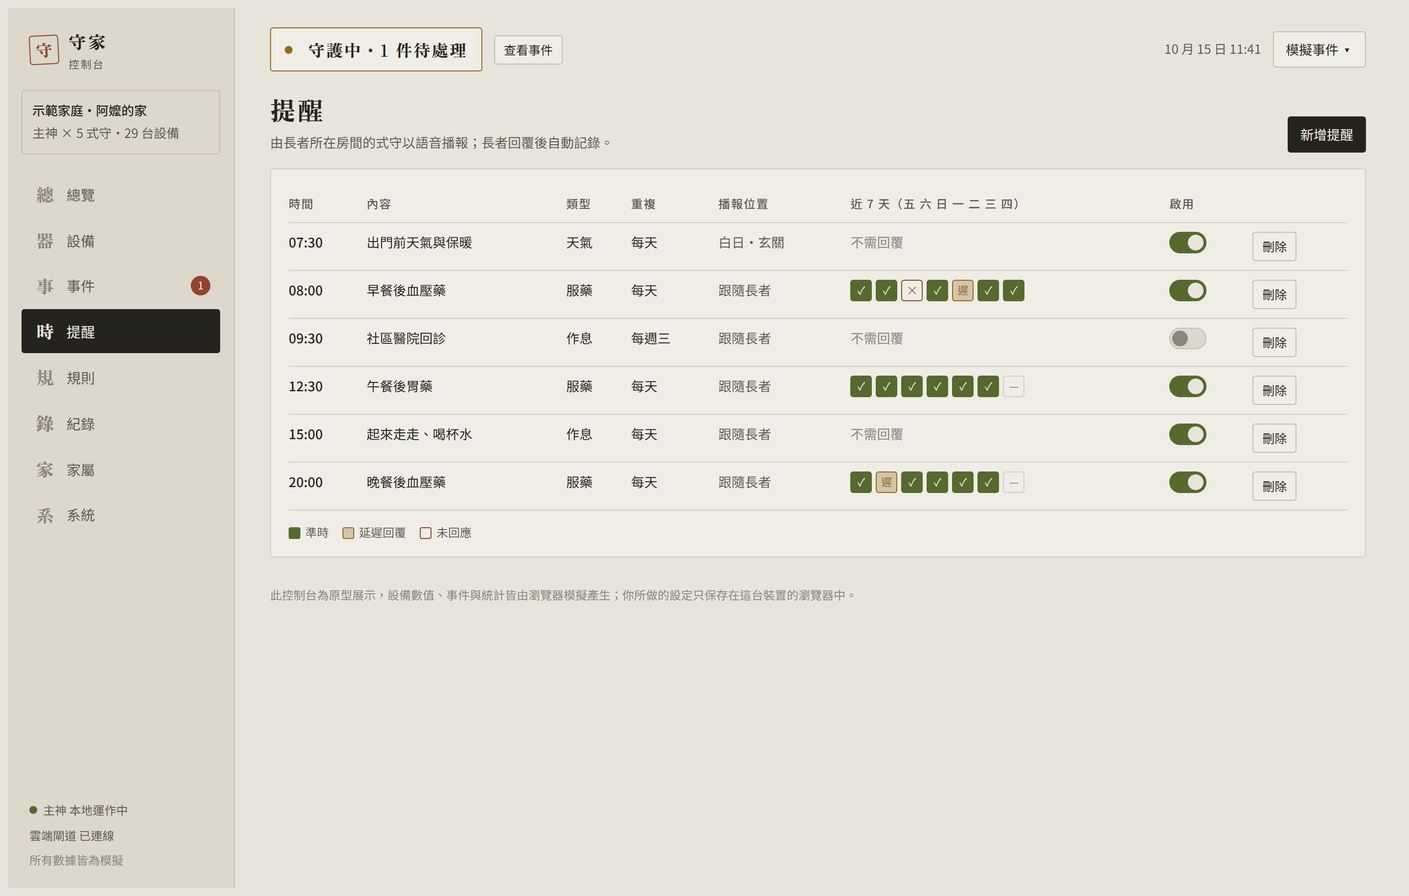
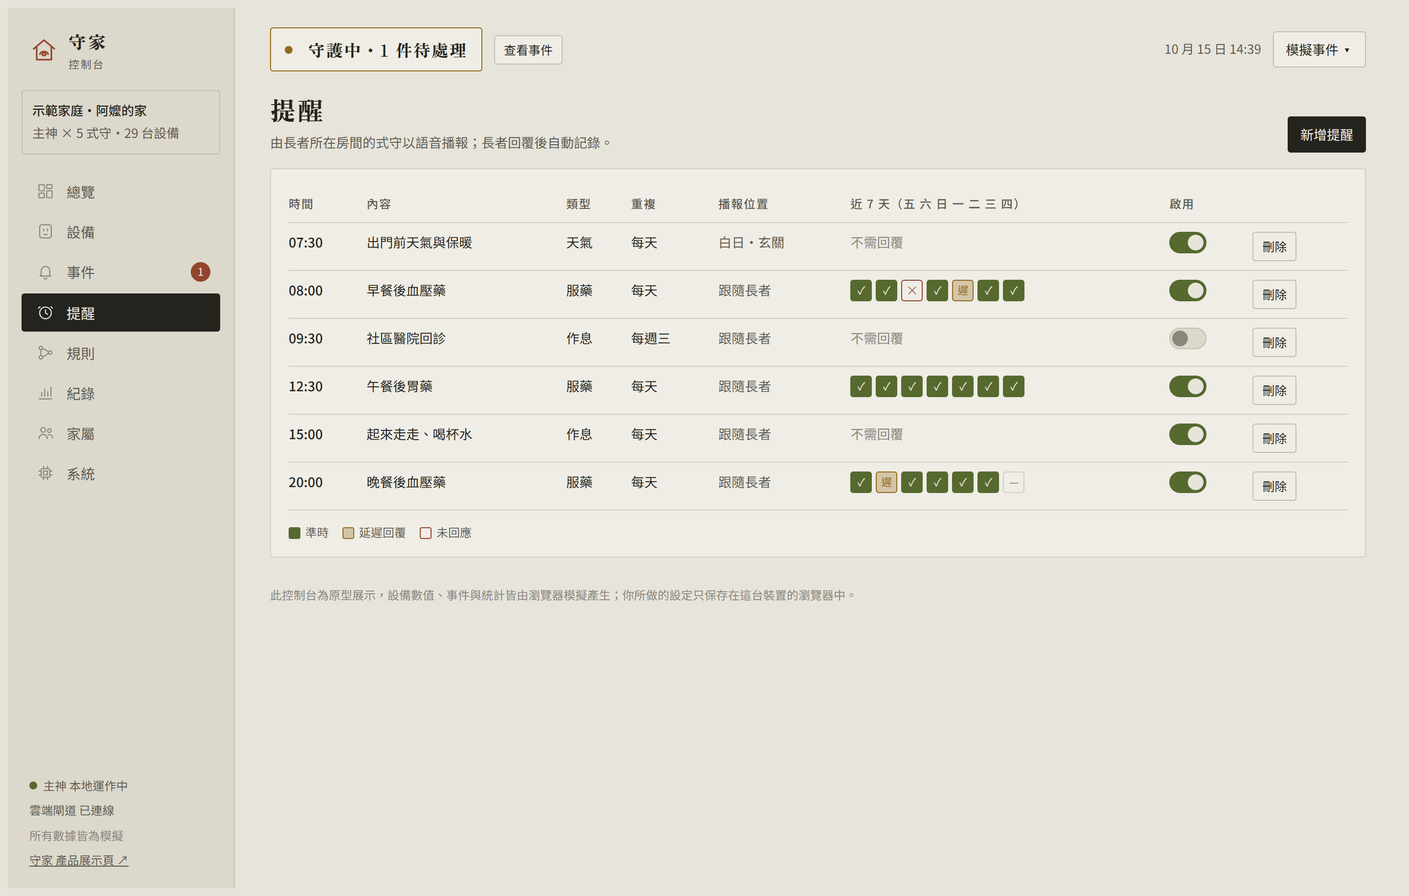
線條圖示、修正跑版、加入產品圖片

diff --git a/index.html b/index.html
@@ -61,13 +61,14 @@ p{margin:0}
 header.top{position:sticky;top:env(safe-area-inset-top,0px);z-index:10;background:color-mix(in srgb,var(--sand) 88%,transparent);
   backdrop-filter:blur(6px);border-bottom:1px solid var(--line)}
 header.top .wrap{display:flex;align-items:center;gap:20px;height:56px}
-.seal{width:30px;height:30px;border:1.5px solid var(--bengara);color:var(--bengara);display:grid;place-items:center;
-  font-family:var(--f-display);font-weight:900;font-size:17px;border-radius:3px;transform:rotate(-3deg);flex:none}
+.ico{width:18px;height:18px;flex:none;fill:none;stroke:currentColor;stroke-width:1.4;stroke-linecap:round;stroke-linejoin:round}
+.mark{width:30px;height:30px;color:var(--bengara);stroke-width:1.3}
 .brand{display:flex;align-items:center;gap:10px;text-decoration:none;font-family:var(--f-display);font-size:18px;letter-spacing:.1em}
-nav.sections{margin-left:auto;display:flex;gap:4px;overflow-x:auto;scrollbar-width:none}
-nav.sections a{font-family:var(--f-ui);font-size:13px;text-decoration:none;color:var(--ink-2);padding:6px 10px;border-radius:2px;white-space:nowrap}
+nav.sections{margin-left:auto;display:flex;gap:2px;overflow-x:auto;scrollbar-width:none;min-width:0}
+nav.sections a{font-family:var(--f-ui);font-size:13px;text-decoration:none;color:var(--ink-2);padding:6px 9px;border-radius:2px;white-space:nowrap;display:inline-flex;align-items:center;gap:6px}
+nav.sections a .ico{width:17px;height:17px;color:var(--ink)}
+nav.sections a.cta{border:1px solid var(--line)}
 nav.sections a:hover{color:var(--ink);background:var(--sand-2)}
-nav.sections a b{font-family:var(--f-display);font-weight:700;color:var(--ink);margin-right:4px}
 
 /* 序 */
 .hero{padding-block:56px 28px;display:grid;grid-template-columns:auto 1fr;gap:clamp(24px,5vw,72px);align-items:start}
@@ -167,7 +168,8 @@ ol.steps li:first-child{border-top:0}
 
 /* 層 */
 .stack{display:grid;gap:10px}
-.layer{display:grid;grid-template-columns:minmax(0,var(--w)) 1fr;gap:24px;align-items:center}
+.layer{display:grid;grid-template-columns:minmax(0,1.15fr) minmax(0,1fr);gap:28px;align-items:center}
+.layer .rock{width:var(--w)}
 .rock{background:var(--rc);color:var(--sand);padding:14px 22px;font-family:var(--f-display);font-weight:700;font-size:17px;letter-spacing:.12em;
   border-radius:var(--rr);min-height:64px;display:flex;align-items:center;justify-content:space-between;gap:12px}
 .rock small{font-family:var(--f-ui);font-weight:400;font-size:11px;letter-spacing:.14em;opacity:.8}
@@ -184,7 +186,7 @@ td.muted{color:var(--ink-2)}
 .innov{display:grid;grid-template-columns:repeat(3,minmax(0,1fr));gap:0;border-top:1px solid var(--line)}
 .innov > div{padding:22px 22px 24px 0;border-bottom:1px solid var(--line);display:grid;grid-template-columns:auto 1fr;gap:14px;align-items:start}
 .innov > div:not(:nth-child(3n+1)){padding-left:22px;border-left:1px solid var(--line)}
-.innov .k{font-family:var(--f-display);font-weight:900;font-size:34px;line-height:1;color:var(--ink-2)}
+.innov .k{width:34px;height:34px;color:var(--ink-2);stroke-width:1.2;margin-top:2px}
 .innov h3{font-size:16.5px;margin-bottom:6px}
 .innov p{font-size:14.5px;color:var(--ink-2);line-height:1.7}
 .compare{margin-top:40px;overflow-x:auto}
@@ -210,6 +212,31 @@ ol.path{padding:0;margin:0 0 40px}
 .team span{font-family:var(--f-ui);font-size:12.5px;color:var(--ink-2)}
 footer{padding-block:40px 56px;border-top:1px solid var(--line);font-family:var(--f-ui);font-size:12.5px;color:var(--ink-2);display:flex;justify-content:space-between;gap:16px;flex-wrap:wrap}
 
+/* 形・圖片 */
+.gallery{display:grid;grid-template-columns:repeat(12,minmax(0,1fr));gap:22px;align-items:start}
+.g-main{grid-column:span 7}.g-side{grid-column:span 5;display:grid;gap:22px}
+figure{margin:0;min-width:0}
+figure button.zoom{display:block;width:100%;padding:0;border:1px solid var(--line);border-radius:2px;background:var(--sand-2);cursor:zoom-in;overflow:hidden}
+figure img{display:block;width:100%;height:auto;transition:transform .6s ease}
+figure button.zoom:hover img{transform:scale(1.02)}
+figcaption{font-family:var(--f-ui);font-size:12.5px;color:var(--ink-2);line-height:1.6;margin-top:8px}
+figcaption b{color:var(--ink);font-weight:500}
+.roster{display:grid;grid-template-columns:repeat(5,minmax(0,1fr));gap:0;border-top:1px solid var(--line);border-bottom:1px solid var(--line)}
+.roster div{padding:12px 12px 12px 0;display:grid;gap:2px}
+.roster div+div{padding-left:12px;border-left:1px solid var(--line)}
+.roster b{font-family:var(--f-display);font-weight:700;font-size:18px;letter-spacing:.12em;display:flex;align-items:center;gap:8px}
+.roster b i{width:9px;height:9px;border-radius:50%;background:var(--dot)}
+.roster span{font-family:var(--f-ui);font-size:12px;color:var(--ink-2)}
+.core{display:grid;grid-template-columns:minmax(0,1fr) minmax(0,1.3fr);gap:28px;align-items:center;margin-top:34px;padding-top:28px;border-top:1px dashed var(--line)}
+.core h3{font-size:18px;letter-spacing:.06em;margin-bottom:8px}
+.core p{font-size:15px;color:var(--ink-2)}
+.plan-fig{margin-top:30px}
+dialog#lb{border:0;padding:0;background:transparent;max-width:min(1200px,94vw);max-height:92vh}
+dialog#lb::backdrop{background:rgba(10,10,8,.82)}
+dialog#lb img{display:block;max-width:100%;max-height:84vh;width:auto;margin:0 auto}
+dialog#lb p{color:#e6e2d6;font-family:var(--f-ui);font-size:13px;text-align:center;margin-top:10px}
+dialog#lb button{position:absolute;top:8px;right:8px;background:rgba(0,0,0,.55);color:#fff;border:0;border-radius:2px;padding:4px 10px;cursor:pointer;font-family:var(--f-ui)}
+@media (max-width:560px){.roster{grid-template-columns:repeat(2,minmax(0,1fr))}.roster div{border-left:0 !important;padding-left:0 !important}}
 @keyframes settle{from{opacity:.25;transform:translateY(4px)}to{opacity:1;transform:none}}
 
 @media (max-width:900px){
@@ -223,7 +250,10 @@ footer{padding-block:40px 56px;border-top:1px solid var(--line);font-family:var(
   .path li::before{top:4px;left:-6px}
   .horizon{grid-template-columns:1fr}
   .layer{grid-template-columns:1fr;gap:6px}
-  .rock{max-width:var(--w)}
+  .layer .rock{width:auto;max-width:var(--w)}
+  .gallery{grid-template-columns:1fr}
+  .gallery .g-main,.gallery .g-side{grid-column:auto}
+  .core{grid-template-columns:1fr}
 }
 @media (max-width:560px){
   .hero{grid-template-columns:1fr;padding-block:32px 16px}
@@ -234,7 +264,7 @@ footer{padding-block:40px 56px;border-top:1px solid var(--line);font-family:var(
   .facts div+div{padding-left:0;border-left:0}
   .facts div{flex-basis:100%;border-bottom:1px solid var(--line)}
   .facts div:last-child{border-bottom:0}
-  .rock{max-width:100%}
+  .layer .rock{max-width:100%}
   nav.sections a{padding:6px 7px}
   nav.sections a span{display:none}
 }
@@ -242,17 +272,34 @@ footer{padding-block:40px 56px;border-top:1px solid var(--line);font-family:var(
 </style>
 </head>
 <body>
+<svg width="0" height="0" style="position:absolute" aria-hidden="true">
+  <symbol id="i-mark" viewBox="0 0 24 24"><path d="M3.5 11.2 12 4l8.5 7.2"/><path d="M6 9.5V20h12V9.5"/><ellipse cx="12" cy="15.6" rx="1.5" ry="1"/><path d="M8.7 15.6a3.3 2.3 0 0 1 6.6 0"/></symbol>
+  <symbol id="i-form" viewBox="0 0 24 24"><path d="M6.6 10.2 7 5.4l3 2.3h4l3-2.3.4 4.8"/><path d="M5.6 13.6a6.4 6.4 0 0 0 12.8 0c0-1.9-1-3.4-1-3.4H6.6s-1 1.5-1 3.4z"/><path d="M10 13.4v.4M14 13.4v.4"/></symbol>
+  <symbol id="i-garden" viewBox="0 0 24 24"><ellipse cx="8.5" cy="14.5" rx="2.4" ry="1.6"/><path d="M4.3 14.5a4.2 3.2 0 0 1 8.4 0M2.4 14.5a6.1 4.7 0 0 1 12.2 0"/><path d="M15.5 9.5h6M15.5 12.5h6M17 15.5h4.5M2.5 19.5h19"/></symbol>
+  <symbol id="i-voice" viewBox="0 0 24 24"><path d="M12 4v16M8.5 7.5v9M15.5 7.5v9M5 10.5v3M19 10.5v3"/></symbol>
+  <symbol id="i-layers" viewBox="0 0 24 24"><path d="M12 4 3.5 8.3 12 12.6l8.5-4.3z"/><path d="m3.5 12.4 8.5 4.3 8.5-4.3"/><path d="m3.5 16.3 8.5 4.3 8.5-4.3"/></symbol>
+  <symbol id="i-new" viewBox="0 0 24 24"><path d="M12 3v3.5M12 17.5V21M3 12h3.5M17.5 12H21"/><path d="m12 8.6 1.2 2.2 2.2 1.2-2.2 1.2-1.2 2.2-1.2-2.2L8.6 12l2.2-1.2z"/></symbol>
+  <symbol id="i-path" viewBox="0 0 24 24"><ellipse cx="6" cy="18.2" rx="2.6" ry="1.4"/><ellipse cx="12" cy="12.6" rx="2.6" ry="1.4"/><ellipse cx="18" cy="7" rx="2.6" ry="1.4"/></symbol>
+  <symbol id="i-people" viewBox="0 0 24 24"><circle cx="9" cy="8.2" r="3"/><path d="M3.5 19.5a5.5 5.5 0 0 1 11 0"/><circle cx="17" cy="9.2" r="2.3"/><path d="M15.6 14.3a4.4 4.4 0 0 1 5.4 4.3"/></symbol>
+  <symbol id="i-console" viewBox="0 0 24 24"><rect x="3" y="4" width="18" height="12" rx="1.5"/><path d="M8.5 20h7M12 16v4"/><path d="m7 12.5 3-3 2 2 4.5-4.5"/></symbol>
+  <symbol id="i-speech" viewBox="0 0 24 24"><path d="M4 5h16v11h-9.5L6 19.5V16H4z"/><path d="M8 9.5h8M8 12.5h5"/></symbol>
+  <symbol id="i-shield" viewBox="0 0 24 24"><path d="M12 3 19 6v5.6c0 4.2-3 7.7-7 9-4-1.3-7-4.8-7-9V6z"/><path d="m9 12 2 2 4-4"/></symbol>
+  <symbol id="i-hybrid" viewBox="0 0 24 24"><path d="M7 17.5a4 4 0 0 1-.6-7.9A5.5 5.5 0 0 1 17 8.4a3.8 3.8 0 0 1 1.2 7.3"/><rect x="9.5" y="13" width="5" height="5" rx=".8"/><path d="M12 11v2M12 18v2"/></symbol>
+  <symbol id="i-eyeoff" viewBox="0 0 24 24"><path d="M3 12s3.5-6 9-6 9 6 9 6-3.5 6-9 6-9-6-9-6z"/><circle cx="12" cy="12" r="2.4"/><path d="M4.5 19.5 19.5 4.5"/></symbol>
+  <symbol id="i-modules" viewBox="0 0 24 24"><rect x="3.5" y="3.5" width="7" height="7" rx="1"/><rect x="13.5" y="3.5" width="7" height="7" rx="1"/><rect x="3.5" y="13.5" width="7" height="7" rx="1"/><path d="M17 14v6M14 17h6"/></symbol>
+</svg>
 <header class="top">
   <div class="wrap">
-    <a class="brand" href="#top"><span class="seal" aria-hidden="true">守</span>守家</a>
+    <a class="brand" href="#top"><svg class="ico mark" aria-hidden="true"><use href="#i-mark"/></svg>守家</a>
     <nav class="sections" aria-label="章節">
-      <a href="#garden-sec"><b>庭</b><span>情境</span></a>
-      <a href="#voice-sec"><b>聲</b><span>語音</span></a>
-      <a href="#layer-sec"><b>層</b><span>架構</span></a>
-      <a href="#new-sec"><b>新</b><span>創新</span></a>
-      <a href="#path-sec"><b>道</b><span>進程</span></a>
-      <a href="#team-sec"><b>人</b><span>團隊</span></a>
-      <a href="console.html" style="border:1px solid var(--line)"><b>台</b><span>後台 ↗</span></a>
+      <a href="#form-sec"><svg class="ico" aria-hidden="true"><use href="#i-form"/></svg><span>主神式守</span></a>
+      <a href="#garden-sec"><svg class="ico" aria-hidden="true"><use href="#i-garden"/></svg><span>情境</span></a>
+      <a href="#voice-sec"><svg class="ico" aria-hidden="true"><use href="#i-voice"/></svg><span>語音</span></a>
+      <a href="#layer-sec"><svg class="ico" aria-hidden="true"><use href="#i-layers"/></svg><span>架構</span></a>
+      <a href="#new-sec"><svg class="ico" aria-hidden="true"><use href="#i-new"/></svg><span>創新</span></a>
+      <a href="#path-sec"><svg class="ico" aria-hidden="true"><use href="#i-path"/></svg><span>進程</span></a>
+      <a href="#team-sec"><svg class="ico" aria-hidden="true"><use href="#i-people"/></svg><span>團隊</span></a>
+      <a class="cta" href="console.html" target="_blank" rel="noopener"><svg class="ico" aria-hidden="true"><use href="#i-console"/></svg><span>後台</span></a>
     </nav>
   </div>
 </header>
@@ -269,6 +316,31 @@ footer{padding-block:40px 56px;border-top:1px solid var(--line);font-family:var(
         <div><dt>架構</dt><dd>主神 × 五式守</dd></div>
         <div><dt>隱私</dt><dd>不裝攝影機，資料留在家中</dd></div>
       </dl>
+    </div>
+  </section>
+
+  <!-- 形 -->
+  <section class="block" id="form-sec">
+    <div class="shead">
+      <div class="glyph" aria-hidden="true">形</div>
+      <div>
+        <h2>主神與五位式守</h2>
+        <p>主神放在客廳，頂部是一座可以耙砂的小枯山水；五位式守各守一個房間，造型取材自守護神與式神，外殼以 3D 列印製作。點圖片可放大。</p>
+      </div>
+    </div>
+    <div class="gallery">
+      <div class="g-main"><figure><button class="zoom" type="button" data-cap="<b>主神 × 式守</b>　右為主神中央主機，左起赤火、蒼月、翠葉、白日、紫星。"><img src="homeguardian-img/shushin-shikimori.jpg" width="1600" height="1516" alt="主神中央主機與赤火、蒼月、翠葉、白日、紫星五位式守" loading="lazy"></button><figcaption><b>主神 × 式守</b>　右為主神中央主機，左起赤火、蒼月、翠葉、白日、紫星。</figcaption></figure></div>
+      <div class="g-side">
+        <figure><button class="zoom" type="button" data-cap="<b>主神外觀</b>　頂部枯山水砂盤、正面散熱格柵，剖面可見風扇與主機板。"><img src="homeguardian-img/host-views.jpg" width="1064" height="1008" alt="主神外觀俯視、立體、正面與剖面" loading="lazy"></button><figcaption><b>主神外觀</b>　頂部枯山水砂盤、正面散熱格柵，剖面可見風扇與主機板。</figcaption></figure>
+        <figure><button class="zoom" type="button" data-cap="<b>赤火守護者三視圖</b>　貓耳兜帽與火焰紋章，守護廚房的爐火。"><img src="homeguardian-img/sekka-3view.jpg" width="1064" height="1008" alt="赤火守護者正視、側視、頂視三視圖" loading="lazy"></button><figcaption><b>赤火守護者三視圖</b>　貓耳兜帽與火焰紋章，守護廚房的爐火。</figcaption></figure>
+      </div>
+    </div>
+    <div class="roster" style="margin-top:28px">
+      <div style="--dot:var(--c-fire)"><b><i></i>赤火</b><span>廚房・煙霧與瓦斯</span></div>
+      <div style="--dot:var(--c-moon)"><b><i></i>蒼月</b><span>臥室・夜間起床</span></div>
+      <div style="--dot:var(--c-leaf)"><b><i></i>翠葉</b><span>客廳・起居與陪伴</span></div>
+      <div style="--dot:var(--c-sun)"><b><i></i>白日</b><span>玄關・天氣與門窗</span></div>
+      <div style="--dot:var(--c-star)"><b><i></i>紫星</b><span>走廊浴室・夜路照明</span></div>
     </div>
   </section>
 
@@ -298,6 +370,7 @@ footer{padding-block:40px 56px;border-top:1px solid var(--line);font-family:var(
         <div class="pbody" id="pbody" role="tabpanel"></div>
       </div>
     </div>
+    <div class="plan-fig"><figure><button class="zoom" type="button" data-cap="<b>居家部署規劃圖</b>　主神位於客廳中央，式守分布在客廳、廚房、臥室、走廊與浴室，形成分散式感測網路；右側為邊緣 AI 與雲端語言模型的混合架構。"><img src="homeguardian-img/floorplan.jpg" width="1408" height="768" alt="守家居家部署規劃圖" loading="lazy"></button><figcaption><b>居家部署規劃圖</b>　主神位於客廳中央，式守分布在客廳、廚房、臥室、走廊與浴室，形成分散式感測網路；右側為邊緣 AI 與雲端語言模型的混合架構。</figcaption></figure></div>
   </section>
 
   <!-- 聲 -->
@@ -364,6 +437,10 @@ footer{padding-block:40px 56px;border-top:1px solid var(--line);font-family:var(
       <div class="layer" style="--w:100%"><div class="rock" style="--rc:var(--c-fire);--rr:12% 88% 20% 80% / 50% 50% 50% 50%">感測層・式守<small>ZIGBEE</small></div>
         <p><b>Aqara Zigbee Hub，加上人體、門窗、溫濕度、毫米波雷達、空氣品質、煙霧、瓦斯感測器。</b>電池供電、免布線，舊房子也能直接裝。</p></div>
     </div>
+    <div class="core">
+      <figure><button class="zoom" type="button" data-cap="<b>主神剖面</b>　由上而下：枯山水砂盤、散熱風扇、主機板。"><img src="homeguardian-img/host-cutaway.jpg" width="440" height="280" alt="主神剖面示意" loading="lazy"></button><figcaption><b>主神剖面</b>　由上而下：枯山水砂盤、散熱風扇、主機板。</figcaption></figure>
+      <div><h3>石組的核心：主神</h3><p>中央運算層就裝在這顆「主石」裡。Jetson Orin Nano SUPER 在本地完成語音辨識、意圖判斷與情境規則；頂部的砂盤讓主機放在客廳時像一件擺設，而不是一台機器。</p></div>
+    </div>
   </section>
 
   <!-- 新 -->
@@ -376,12 +453,12 @@ footer{padding-block:40px 56px;border-top:1px solid var(--line);font-family:var(
       </div>
     </div>
     <div class="innov">
-      <div><span class="k">形</span><div><h3>角色化的主神與式守</h3><p>每位式守有自己的造型與守護的房間，冷冰冰的設備變成看得懂、叫得出名字的家中成員。</p></div></div>
-      <div><span class="k">言</span><div><h3>一句話完成操作</h3><p>不必學 App、不必記選單，用平常說話的方式就能控制、查詢與接收提醒。</p></div></div>
-      <div><span class="k">先</span><div><h3>主動守護</h3><p>不等指令。夜間起床自動照明、久未活動主動關心、瓦斯異常立即警示。</p></div></div>
-      <div><span class="k">混</span><div><h3>邊緣與雲端混合</h3><p>本地處理確保即時與隱私；雲端模型提供自然對話與陪伴。</p></div></div>
-      <div><span class="k">隱</span><div><h3>不用攝影機</h3><p>以毫米波雷達、人體與門窗感測取代影像監看，守護長輩也保有尊嚴。</p></div></div>
-      <div><span class="k">增</span><div><h3>式守可增可減</h3><p>依房屋格局增減式守，擴充環境、電力、空氣品質感測，部署成本低。</p></div></div>
+      <div><svg class="ico k" aria-hidden="true"><use href="#i-form"/></svg><div><h3>角色化的主神與式守</h3><p>每位式守有自己的造型與守護的房間，冷冰冰的設備變成看得懂、叫得出名字的家中成員。</p></div></div>
+      <div><svg class="ico k" aria-hidden="true"><use href="#i-speech"/></svg><div><h3>一句話完成操作</h3><p>不必學 App、不必記選單，用平常說話的方式就能控制、查詢與接收提醒。</p></div></div>
+      <div><svg class="ico k" aria-hidden="true"><use href="#i-shield"/></svg><div><h3>主動守護</h3><p>不等指令。夜間起床自動照明、久未活動主動關心、瓦斯異常立即警示。</p></div></div>
+      <div><svg class="ico k" aria-hidden="true"><use href="#i-hybrid"/></svg><div><h3>邊緣與雲端混合</h3><p>本地處理確保即時與隱私；雲端模型提供自然對話與陪伴。</p></div></div>
+      <div><svg class="ico k" aria-hidden="true"><use href="#i-eyeoff"/></svg><div><h3>不用攝影機</h3><p>以毫米波雷達、人體與門窗感測取代影像監看，守護長輩也保有尊嚴。</p></div></div>
+      <div><svg class="ico k" aria-hidden="true"><use href="#i-modules"/></svg><div><h3>式守可增可減</h3><p>依房屋格局增減式守，擴充環境、電力、空氣品質感測，部署成本低。</p></div></div>
     </div>
     <div class="compare">
       <table>
@@ -446,6 +523,7 @@ footer{padding-block:40px 56px;border-top:1px solid var(--line);font-family:var(
   </footer>
 </div>
 
+<dialog id="lb" aria-label="圖片放大"><button type="button" id="lb-close">關閉</button><img id="lb-img" alt=""><p id="lb-cap"></p></dialog>
 <script>
 (() => {
 const reduce = matchMedia('(prefers-reduced-motion: reduce)').matches;
@@ -766,6 +844,11 @@ const PHRASES=['幫我開客廳的燈','冷氣調到 26 度','我今天吃藥了
 $('#phrase-chips').innerHTML=PHRASES.map(p=>`<button class="chip" type="button">${p}</button>`).join('');
 document.querySelectorAll('#phrase-chips .chip').forEach(b=>b.onclick=()=>say(b.textContent));
 say('幫我開客廳的燈',true); say('有點悶，陪我聊聊',true);
+
+/* ---------- 圖片放大 ---------- */
+const lb=$('#lb');
+document.querySelectorAll('button.zoom').forEach(b=>b.addEventListener('click',()=>{const im=b.querySelector('img');$('#lb-img').src=im.src;$('#lb-img').alt=im.alt;$('#lb-cap').innerHTML=b.dataset.cap;try{lb.showModal()}catch(e){lb.setAttribute('open','')}}));
+$('#lb-close').onclick=()=>lb.close(); lb.addEventListener('click',e=>{if(e.target===lb)lb.close()});
 
 /* ---------- 啟動 ---------- */
 function boot(){ resize(); runScen('night', true); if(!reduce) requestAnimationFrame(frame); }

diff --git a/console.html b/console.html
@@ -52,14 +52,15 @@ p{margin:0}
 .app{display:grid;grid-template-columns:232px minmax(0,1fr);min-height:100vh}
 aside.side{background:var(--sand-2);border-right:1px solid var(--line);padding:20px 14px;display:flex;flex-direction:column;gap:18px;position:sticky;top:0;height:100vh;overflow-y:auto}
 .brand{display:flex;align-items:center;gap:10px;padding:0 8px}
-.seal{width:30px;height:30px;border:1.5px solid var(--bengara);color:var(--bengara);display:grid;place-items:center;font-family:var(--f-display);font-weight:900;font-size:17px;border-radius:3px;transform:rotate(-3deg);flex:none}
+.ico{width:19px;height:19px;flex:none;fill:none;stroke:currentColor;stroke-width:1.4;stroke-linecap:round;stroke-linejoin:round}
+.mark{width:30px;height:30px;color:var(--bengara);stroke-width:1.3}
 .brand b{font-family:var(--f-display);font-size:18px;letter-spacing:.12em;font-weight:900}
 .brand small{display:block;font-size:11px;color:var(--ink-2);letter-spacing:.12em}
 .home{padding:10px 10px;border:1px solid var(--line);border-radius:3px;font-size:13px;display:grid;gap:2px}
 .home b{font-weight:500}
 nav.nav{display:grid;gap:2px}
 nav.nav button{display:grid;grid-template-columns:28px 1fr auto;align-items:center;gap:8px;background:none;border:0;padding:8px 10px;border-radius:3px;cursor:pointer;text-align:left;color:var(--ink-2)}
-nav.nav button .g{font-family:var(--f-display);font-weight:900;font-size:18px;color:var(--ink-3);text-align:center}
+nav.nav button .g{color:var(--ink-3);justify-self:center}
 nav.nav button:hover{background:var(--card);color:var(--ink)}
 nav.nav button[aria-current="page"]{background:var(--ink);color:var(--sand)}
 nav.nav button[aria-current="page"] .g{color:var(--sand)}
@@ -250,11 +251,23 @@ details.tv summary{cursor:pointer;color:var(--ink-2)}
 }
 @media (prefers-reduced-motion:reduce){*{animation:none !important;transition:none !important}}
 </style>
-</head>
-<body>
+
 <div class="app">
   <aside class="side">
-    <div class="brand"><span class="seal" aria-hidden="true">守</span><div><b>守家</b><small>控制台</small></div></div>
+</head>
+<body>
+<svg width="0" height="0" style="position:absolute" aria-hidden="true">
+  <symbol id="i-mark" viewBox="0 0 24 24"><path d="M3.5 11.2 12 4l8.5 7.2"/><path d="M6 9.5V20h12V9.5"/><ellipse cx="12" cy="15.6" rx="1.5" ry="1"/><path d="M8.7 15.6a3.3 2.3 0 0 1 6.6 0"/></symbol>
+  <symbol id="i-overview" viewBox="0 0 24 24"><rect x="3.5" y="3.5" width="7" height="8" rx="1"/><rect x="13.5" y="3.5" width="7" height="5" rx="1"/><rect x="13.5" y="11.5" width="7" height="9" rx="1"/><rect x="3.5" y="14.5" width="7" height="6" rx="1"/></symbol>
+  <symbol id="i-devices" viewBox="0 0 24 24"><rect x="4.5" y="3.5" width="15" height="17" rx="3"/><path d="M9.5 9v2.5M14.5 9v2.5"/><path d="M10 16h4"/></symbol>
+  <symbol id="i-events" viewBox="0 0 24 24"><path d="M6.5 16.5V11a5.5 5.5 0 0 1 11 0v5.5l1.5 1.5H5z"/><path d="M10 20.5a2.2 2.2 0 0 0 4 0"/></symbol>
+  <symbol id="i-reminders" viewBox="0 0 24 24"><circle cx="12" cy="12.5" r="7.5"/><path d="M12 8.5v4l2.6 1.8"/><path d="M5 4.5 3 6.5M19 4.5l2 2"/></symbol>
+  <symbol id="i-rules" viewBox="0 0 24 24"><circle cx="6" cy="6" r="2.2"/><circle cx="6" cy="18" r="2.2"/><circle cx="18" cy="12" r="2.2"/><path d="M6 8.2v7.6M8 6.8c4 .7 5.5 2.4 7.9 4.4M8 17.2c4-.7 5.5-2.4 7.9-4.4"/></symbol>
+  <symbol id="i-logs" viewBox="0 0 24 24"><path d="M4 20h16"/><path d="M7 16.5V12M11 16.5V7.5M15 16.5v-6M19 16.5V5"/></symbol>
+  <symbol id="i-family" viewBox="0 0 24 24"><circle cx="9" cy="8.2" r="3"/><path d="M3.5 19.5a5.5 5.5 0 0 1 11 0"/><circle cx="17" cy="9.2" r="2.3"/><path d="M15.6 14.3a4.4 4.4 0 0 1 5.4 4.3"/></symbol>
+  <symbol id="i-system" viewBox="0 0 24 24"><rect x="6.5" y="6.5" width="11" height="11" rx="1.5"/><rect x="9.5" y="9.5" width="5" height="5" rx=".6"/><path d="M9.5 6.5V3.5M14.5 6.5V3.5M9.5 20.5v-3M14.5 20.5v-3M6.5 9.5h-3M6.5 14.5h-3M20.5 9.5h-3M20.5 14.5h-3"/></symbol>
+</svg>
+    <div class="brand"><svg class="ico mark" aria-hidden="true"><use href="#i-mark"/></svg><div><b>守家</b><small>控制台</small></div></div>
     <div class="home"><b id="home-name">示範家庭・阿嬤的家</b><span class="muted">主神 × 5 式守・29 台設備</span></div>
     <nav class="nav" id="nav" aria-label="功能"></nav>
     <div class="side-foot">
@@ -500,13 +513,13 @@ function resolveSide(ev){
 const pending=()=>S.events.filter(e=>e.status==='pending');
 
 /* ================= 導覽 ================= */
-const VIEWS=[['overview','總','總覽'],['devices','器','設備'],['events','事','事件'],['reminders','時','提醒'],['rules','規','規則'],['logs','錄','紀錄'],['family','家','家屬'],['system','系','系統']];
+const VIEWS=[['overview','overview','總覽'],['devices','devices','設備'],['events','events','事件'],['reminders','reminders','提醒'],['rules','rules','規則'],['logs','logs','紀錄'],['family','family','家屬'],['system','system','系統']];
 let cur='overview';
 try{const h=location.hash.slice(1); if(VIEWS.some(v=>v[0]===h)) cur=h;}catch(e){}
 const ui={evFilter:{sev:'all',status:'all',room:'all'},evOpen:null,devRoom:'all',devKind:'all',menu:false,addRem:false,addRule:false,addContact:false};
 function renderNav(){
   const n=pending().length;
-  $('#nav').innerHTML=VIEWS.map(([id,g,l])=>`<button data-act="go" data-v="${id}" ${cur===id?'aria-current="page"':''}><span class="g">${g}</span><span class="l">${l}</span>${id==='events'&&n?`<span class="badge">${n}</span>`:'<span></span>'}</button>`).join('');
+  $('#nav').innerHTML=VIEWS.map(([id,g,l])=>`<button data-act="go" data-v="${id}" ${cur===id?'aria-current="page"':''}><svg class="ico g" aria-hidden="true"><use href="#i-${g}"/></svg><span class="l">${l}</span>${id==='events'&&n?`<span class="badge">${n}</span>`:'<span></span>'}</button>`).join('');
   $('#foot-dot').className='dot'+(pending().some(e=>e.sev==='crit')?' crit':'');
 }
 function topbar(){
